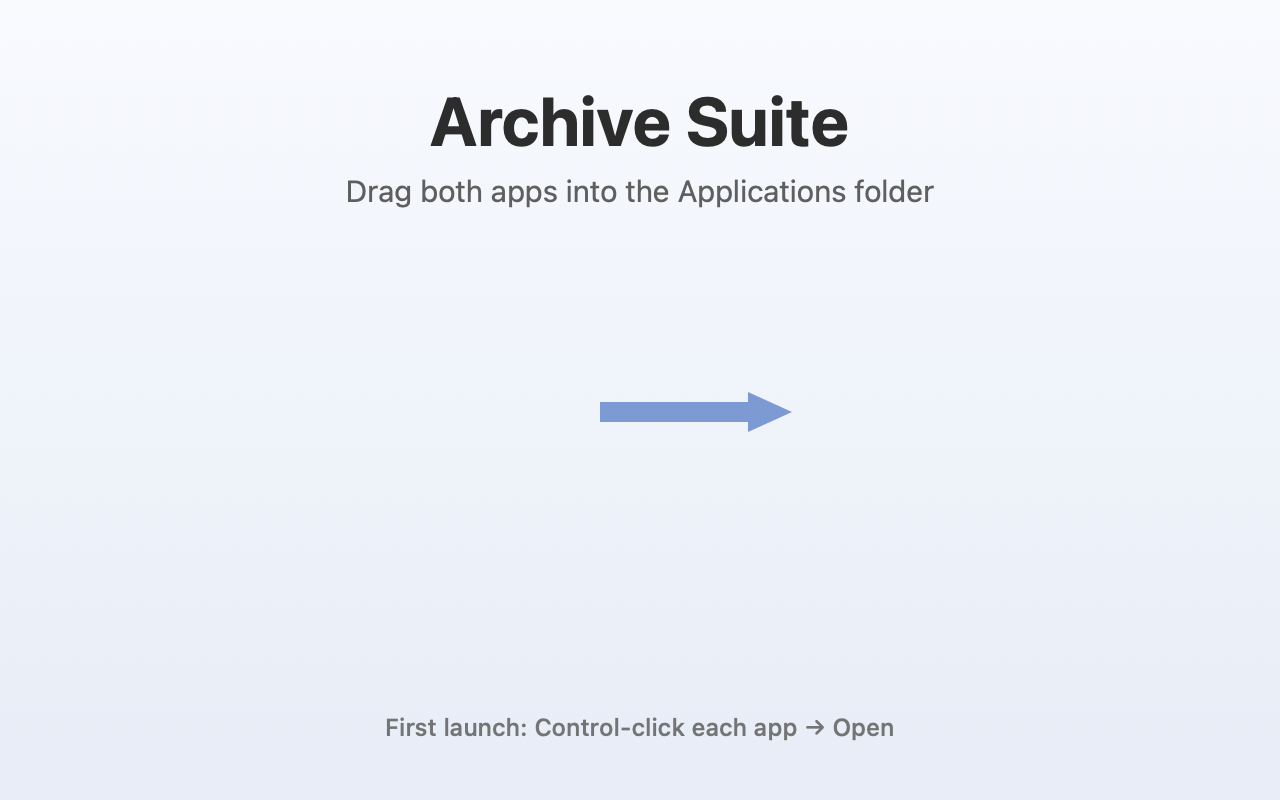
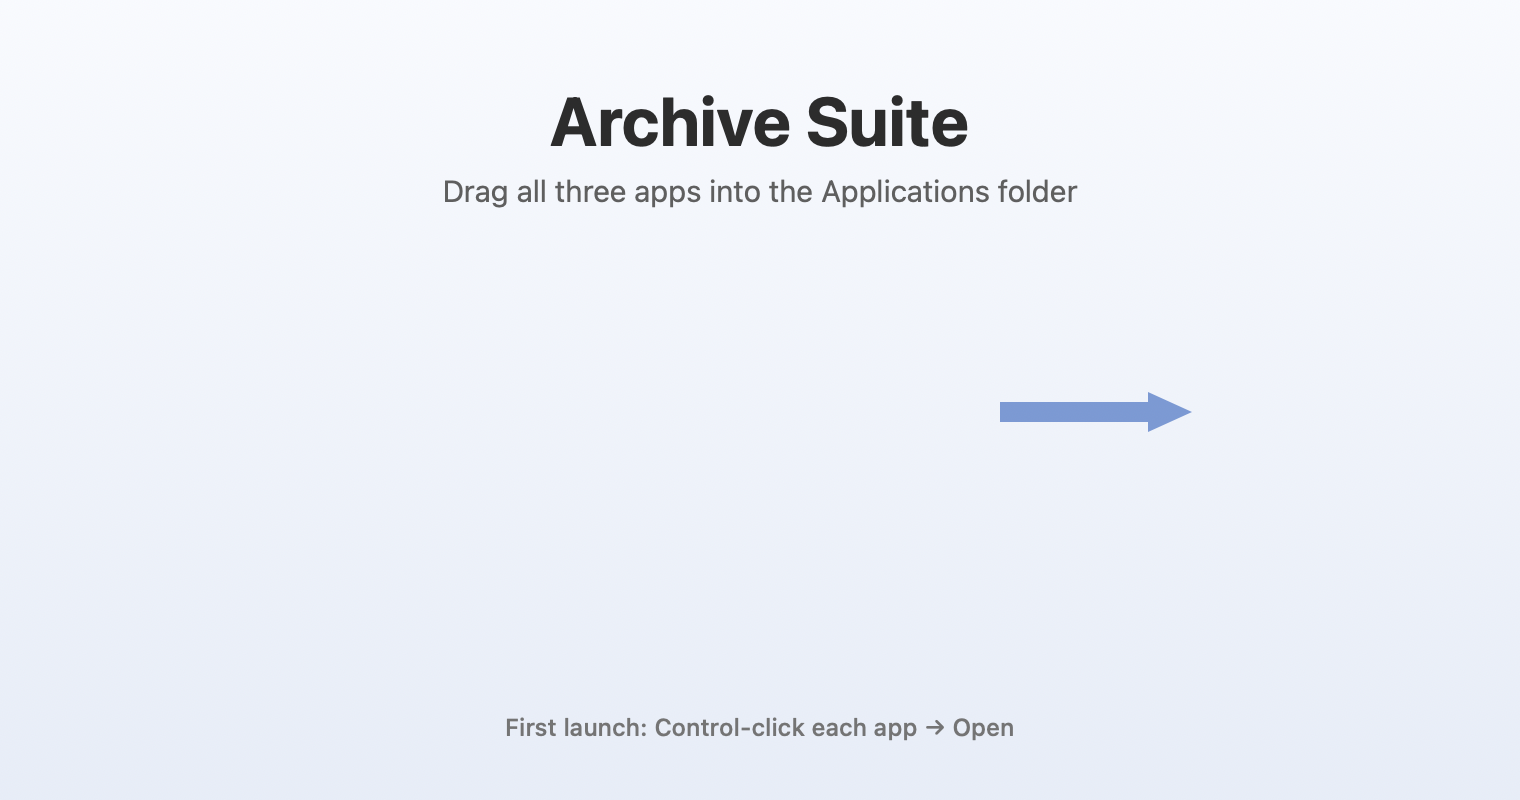
feat(notes): suite wiring — root dispatcher + smoke + DMG (W1-S4)
- Root launch.sh: add `notes|n|ArchiveNotes` case arm
- Root test-smoke.sh: add `run_notes()` + case arm + include in `all`
- ArchiveNotes/test-smoke.sh: new, mirrors Reader's (PROJ=$ROOT/macOS)
- release/build-suite-dmg.sh: 3rd APPS entry, 4-icon layout (760-wide)
- release/make-dmg-background.swift: W=760, "all three apps", arrow
  repositioned right of 3rd icon slot; PNG re-rendered

Build: Notes 24 tests green, Reader 154 tests green, Processor clean.
GUI launch deferred (GUI paused per owner directive).

diff --git a/release/make-dmg-background.swift b/release/make-dmg-background.swift
@@ -6,7 +6,7 @@
 // arrow drawn here.
 import AppKit
 
-let W: CGFloat = 640, H: CGFloat = 400   // matches the Finder window content size in build-suite-dmg.sh
+let W: CGFloat = 760, H: CGFloat = 400   // matches the Finder window content size in build-suite-dmg.sh
 let out = CommandLine.arguments.count > 1 ? CommandLine.arguments[1] : "dmg-background.png"
 
 let img = NSImage(size: NSSize(width: W, height: H))
@@ -31,11 +31,11 @@ func draw(_ s: String, cx: CGFloat, yTop: CGFloat, size: CGFloat, weight: NSFont
 
 // Title + subtitle near the top.
 draw("Archive Suite", cx: W/2, yTop: 40, size: 34, weight: .bold, white: 0.13)
-draw("Drag both apps into the Applications folder", cx: W/2, yTop: 86, size: 15, weight: .regular, white: 0.30)
+draw("Drag all three apps into the Applications folder", cx: W/2, yTop: 86, size: 15, weight: .regular, white: 0.30)
 
 // A right-pointing arrow across the middle (from behind the apps toward Applications).
 let midY = H/2 - 6          // AppKit y of the arrow center (icons are vertically centered)
-let x0: CGFloat = 300, x1: CGFloat = 396, headW: CGFloat = 22, shaftH: CGFloat = 10
+let x0: CGFloat = 500, x1: CGFloat = 596, headW: CGFloat = 22, shaftH: CGFloat = 10
 NSColor(calibratedRed: 0.30, green: 0.46, blue: 0.78, alpha: 0.85).setFill()
 let arrow = NSBezierPath()
 arrow.move(to: NSPoint(x: x0, y: midY - shaftH/2))
